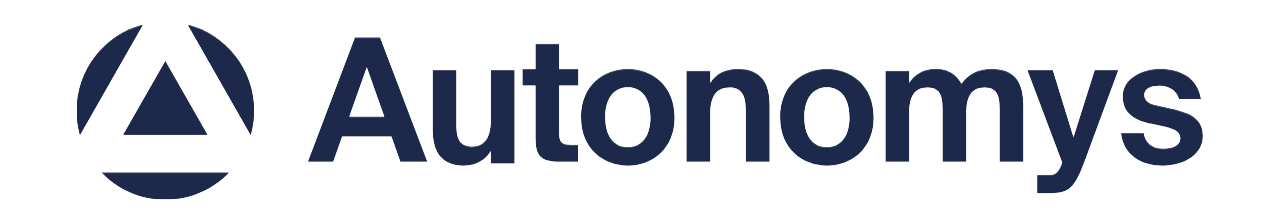
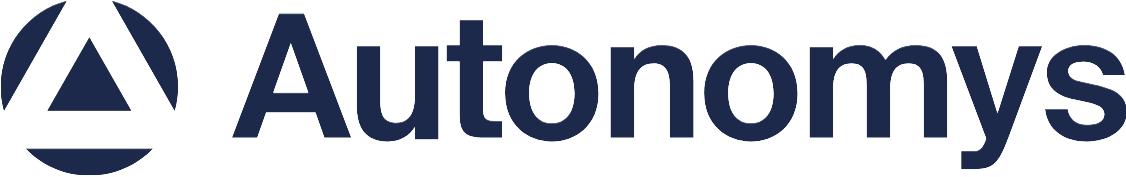
Sponsorss!!

diff --git a/src/app/sponsors/page.tsx b/src/app/sponsors/page.tsx
@@ -46,8 +46,8 @@ const Sponsors = () => {
             <Text textAlign="center" fontWeight="bold">TERA TIER</Text>
           </Box>
           <HStack justifyContent={"center"} gap={{ base: 10, md: 20 }} my={7}>
-          <Link href="https://dabl.club/" width="45%" target="_blank" rel="noopener noreferrer"><Image src="/sponsors/dablclub.svg" alt="Dabl Club sponsor logo" /></Link>
-            {/* <Link href="https://www.autonomys.xyz/" width="65%" target="_blank" rel="noopener noreferrer"><Image src="/sponsors/autonomys.png" alt="Autonomys sponsor logo" /></Link> */}
+            <Link href="https://dabl.club/" width="45%" target="_blank" rel="noopener noreferrer"><Image src="/sponsors/dablclub.svg" alt="Dabl Club sponsor logo" /></Link>
+            <Link href="https://www.autonomys.xyz/" width="45%" target="_blank" rel="noopener noreferrer"><Image src="/sponsors/autonomys.png" alt="Autonomys sponsor logo" /></Link>
           </HStack>
           <Box w="150px" borderRadius="xl" bgGradient="to-r" gradientFrom="#fff7ad" gradientTo="#ffa9f9" p={4} mt={4} color="dark">
             <Text textAlign="center" fontWeight="bold">GIGA TIER</Text>
